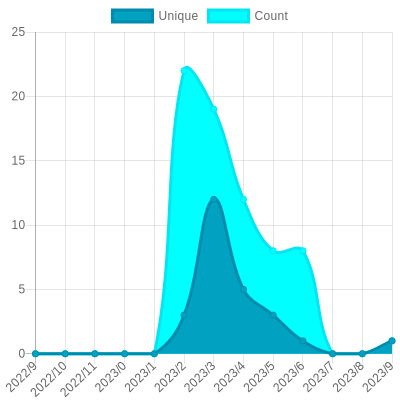
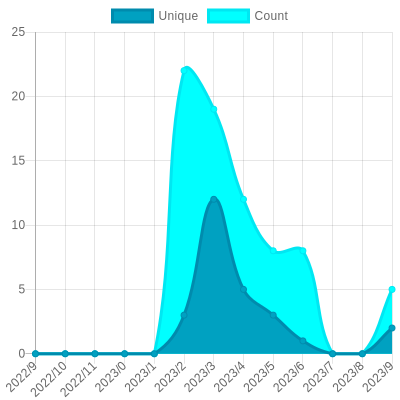
Update views

Changed region(s): [[0.9, 0.72, 0.99, 0.9]]

diff --git a/readme/471953072/year.md b/readme/471953072/year.md
@@ -23,10 +23,10 @@
 			<code>2022/10/1</code>
 		</td>
 		<td>
-			<code>1</code>
+			<code>2</code>
 		</td>
 		<td>
-			<code>1</code>
+			<code>5</code>
 		</td>
 	</tr>
 	<tr>
@@ -164,7 +164,7 @@
 </table>
 
 </details>
-<small><i>Last updated on 2022/10/25 12:23 PM UTC</i></small>
+<small><i>Last updated on 2022/10/25 6:36 PM UTC</i></small>
 
 ## ✂Copy and 📋 Paste
 ### SVG Badge

diff --git a/README.md b/README.md
@@ -181,7 +181,7 @@ The project created and maintained by [gayanvoice](https://github.com/gayanvoice
 	</tr>
 </table>
 
-<small><i>Last updated on 2022/10/25 12:24 PM UTC</i></small>
+<small><i>Last updated on 2022/10/25 6:37 PM UTC</i></small>
 
 ## ✂Copy and 📋 Paste
 ### Total Views Badge

diff --git a/readme/442148592/year.md b/readme/442148592/year.md
@@ -164,7 +164,7 @@
 </table>
 
 </details>
-<small><i>Last updated on 2022/10/25 12:24 PM UTC</i></small>
+<small><i>Last updated on 2022/10/25 6:37 PM UTC</i></small>
 
 ## ✂Copy and 📋 Paste
 ### SVG Badge

diff --git a/readme/445334992/year.md b/readme/445334992/year.md
@@ -164,7 +164,7 @@
 </table>
 
 </details>
-<small><i>Last updated on 2022/10/25 12:24 PM UTC</i></small>
+<small><i>Last updated on 2022/10/25 6:37 PM UTC</i></small>
 
 ## ✂Copy and 📋 Paste
 ### SVG Badge

diff --git a/readme/466756958/year.md b/readme/466756958/year.md
@@ -164,7 +164,7 @@
 </table>
 
 </details>
-<small><i>Last updated on 2022/10/25 12:23 PM UTC</i></small>
+<small><i>Last updated on 2022/10/25 6:36 PM UTC</i></small>
 
 ## ✂Copy and 📋 Paste
 ### SVG Badge

diff --git a/readme/471639041/year.md b/readme/471639041/year.md
@@ -164,7 +164,7 @@
 </table>
 
 </details>
-<small><i>Last updated on 2022/10/25 12:23 PM UTC</i></small>
+<small><i>Last updated on 2022/10/25 6:36 PM UTC</i></small>
 
 ## ✂Copy and 📋 Paste
 ### SVG Badge

diff --git a/readme/471680735/year.md b/readme/471680735/year.md
@@ -164,7 +164,7 @@
 </table>
 
 </details>
-<small><i>Last updated on 2022/10/25 12:24 PM UTC</i></small>
+<small><i>Last updated on 2022/10/25 6:37 PM UTC</i></small>
 
 ## ✂Copy and 📋 Paste
 ### SVG Badge

diff --git a/readme/471953382/year.md b/readme/471953382/year.md
@@ -164,7 +164,7 @@
 </table>
 
 </details>
-<small><i>Last updated on 2022/10/25 12:24 PM UTC</i></small>
+<small><i>Last updated on 2022/10/25 6:36 PM UTC</i></small>
 
 ## ✂Copy and 📋 Paste
 ### SVG Badge

diff --git a/readme/471953501/year.md b/readme/471953501/year.md
@@ -164,7 +164,7 @@
 </table>
 
 </details>
-<small><i>Last updated on 2022/10/25 12:23 PM UTC</i></small>
+<small><i>Last updated on 2022/10/25 6:36 PM UTC</i></small>
 
 ## ✂Copy and 📋 Paste
 ### SVG Badge

diff --git a/readme/472121426/year.md b/readme/472121426/year.md
@@ -164,7 +164,7 @@
 </table>
 
 </details>
-<small><i>Last updated on 2022/10/25 12:24 PM UTC</i></small>
+<small><i>Last updated on 2022/10/25 6:37 PM UTC</i></small>
 
 ## ✂Copy and 📋 Paste
 ### SVG Badge

diff --git a/readme/472131818/year.md b/readme/472131818/year.md
@@ -164,7 +164,7 @@
 </table>
 
 </details>
-<small><i>Last updated on 2022/10/25 12:24 PM UTC</i></small>
+<small><i>Last updated on 2022/10/25 6:37 PM UTC</i></small>
 
 ## ✂Copy and 📋 Paste
 ### SVG Badge
